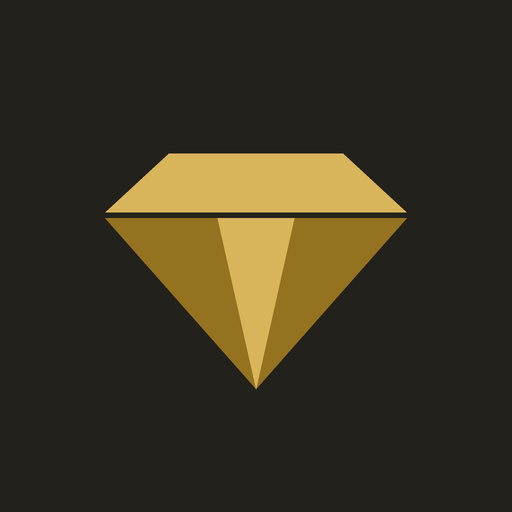
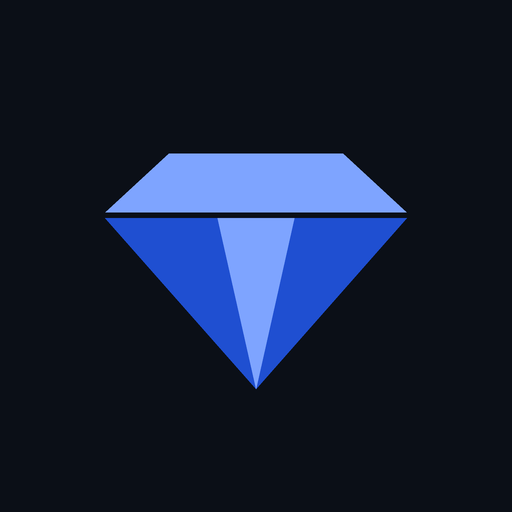
Add files via upload

Changed region(s): [[0.1875, 0.2812, 0.8125, 0.75]]

diff --git a/index.html b/index.html
@@ -7,7 +7,7 @@
 <meta name="mobile-web-app-capable" content="yes">
 <meta name="apple-mobile-web-app-title" content="עלות תכשיט">
 <meta name="apple-mobile-web-app-status-bar-style" content="default">
-<meta name="theme-color" content="#f5f3ee">
+<meta name="theme-color" content="#f1f4f9">
 <link rel="manifest" href="manifest.json">
 <link rel="apple-touch-icon" href="icon-180.png">
 <link rel="icon" href="icon-192.png">
@@ -17,67 +17,77 @@
 html{padding-top:env(safe-area-inset-top,0px);padding-bottom:env(safe-area-inset-bottom,0px)}
 body{margin:0}
 [hidden]{display:none!important}
-/* Layout: single column work-sheet, cost lines grouped by stage, summary card under the profit field */
+/* Layout: single column work-sheet in white and blue, black summary card at the end */
 :root{
-  --bg:#f5f3ee; --surface:#ffffff; --fg:#23211c; --muted:#77705f; --line:#e3ddcf;
-  --gold:#94721f; --gold-soft:#f1e7cc; --good:#2f6b46;
+  --bg:#f1f4f9; --surface:#ffffff; --fg:#0b0f17; --muted:#5a6577; --line:#dce2eb;
+  --accent:#1f4fd1; --accent-soft:#e5ecfb; --on-accent:#ffffff;
+  --ink:#0b0f17; --ink-fg:#ffffff; --ink-muted:#a3aec0; --ink-line:#273041;
+  --ink-accent:#7ea4ff; --good:#4cc38a; --bad:#ff7a7a;
+  --warn-bg:#fde8e8; --warn-fg:#8a1c1c;
   --display:"Times New Roman",Georgia,serif;
   --body:-apple-system,BlinkMacSystemFont,"Segoe UI",Arial,sans-serif;
 }
 @media (prefers-color-scheme: dark){:root:not([data-theme="light"]){
-  --bg:#17160f; --surface:#211f17; --fg:#efe9da; --muted:#a69d86; --line:#36322a;
-  --gold:#d8b45a; --gold-soft:#3a3120; --good:#7cc596; color-scheme:dark}}
+  --bg:#05070b; --surface:#0f141d; --fg:#f3f6fb; --muted:#93a0b4; --line:#222a37;
+  --accent:#5b8cff; --accent-soft:#132042; --on-accent:#05070b;
+  --ink:#141c2c; --ink-line:#2c3850; --warn-bg:#3a1414; --warn-fg:#ffb4b4; color-scheme:dark}}
 :root[data-theme="dark"]{
-  --bg:#17160f; --surface:#211f17; --fg:#efe9da; --muted:#a69d86; --line:#36322a;
-  --gold:#d8b45a; --gold-soft:#3a3120; --good:#7cc596; color-scheme:dark}
+  --bg:#05070b; --surface:#0f141d; --fg:#f3f6fb; --muted:#93a0b4; --line:#222a37;
+  --accent:#5b8cff; --accent-soft:#132042; --on-accent:#05070b;
+  --ink:#141c2c; --ink-line:#2c3850; --warn-bg:#3a1414; --warn-fg:#ffb4b4; color-scheme:dark}
 
 *{box-sizing:border-box}
 body{background:var(--bg);color:var(--fg);font-family:var(--body);font-size:17px;line-height:1.45;-webkit-text-size-adjust:100%}
 .wrap{max-width:520px;margin:0 auto;padding-inline:16px;padding-block:18px 40px;display:flex;flex-direction:column;gap:18px}
 header{display:flex;align-items:flex-end;justify-content:space-between;gap:12px}
-h1{font-family:var(--display);font-weight:400;font-size:1.65rem;margin:0;line-height:1.1;text-wrap:balance}
-h1 small{display:block;font-family:var(--body);font-size:.85rem;color:var(--muted);font-weight:400;margin-top:4px}
+h1{font-family:var(--body);font-weight:800;font-size:1.55rem;letter-spacing:-.01em;margin:0;line-height:1.1;text-wrap:balance}
+h1 small{display:block;font-size:.85rem;color:var(--muted);font-weight:400;margin-top:4px;letter-spacing:0}
 .links{display:flex;gap:8px}
-.ghost{background:none;border:1px solid var(--line);color:var(--muted);font:600 .85rem var(--body);padding:7px 11px;border-radius:999px;cursor:pointer}
-.ghost:active{background:var(--gold-soft)}
+.ghost{background:var(--surface);border:1px solid var(--line);color:var(--fg);font:600 .85rem var(--body);padding:7px 12px;border-radius:999px;cursor:pointer}
+.ghost:active{background:var(--accent-soft)}
 
 section{background:var(--surface);border:1px solid var(--line);border-radius:14px;padding:4px 14px}
-section h2{font-size:.78rem;letter-spacing:.06em;color:var(--gold);margin:12px 0 2px;font-weight:700}
+section h2{font-size:.78rem;letter-spacing:.06em;color:var(--accent);margin:12px 0 2px;font-weight:700}
 .row{display:flex;align-items:center;gap:12px;padding:10px 0;border-bottom:1px solid var(--line)}
 .row:last-child{border-bottom:0}
-.row label{flex:1;min-width:0;font-weight:600}
+.row > label{flex:1;min-width:0;font-weight:600}
 .money{position:relative;width:46%;max-width:180px}
 .money input{width:100%;font:600 1.1rem var(--body);font-variant-numeric:tabular-nums;color:var(--fg);background:var(--bg);border:1px solid var(--line);border-radius:10px;padding:10px 12px 10px 30px;text-align:left;direction:ltr;-webkit-appearance:none;appearance:none}
 .money input::placeholder{color:var(--muted);opacity:.55;font-weight:400}
 .money span{position:absolute;left:11px;top:50%;transform:translateY(-50%);color:var(--muted);font-size:.95rem;pointer-events:none}
-input:focus{outline:2px solid var(--gold);outline-offset:1px;border-color:transparent}
+input:focus{outline:2px solid var(--accent);outline-offset:1px;border-color:transparent}
 
-.seg{display:inline-flex;border:1px solid var(--line);border-radius:10px;overflow:hidden;flex:none}
+.seg{display:inline-flex;border:1px solid var(--line);border-radius:10px;overflow:hidden;flex:none;background:var(--bg)}
 .seg input{position:absolute;opacity:0;width:1px;height:1px;pointer-events:none}
-.seg label{flex:none;display:block;background:var(--bg);color:var(--muted);font:700 1rem var(--body);padding:11px 16px;cursor:pointer;min-width:50px;text-align:center;-webkit-tap-highlight-color:transparent;touch-action:manipulation}
-.seg input:checked + label{background:var(--gold);color:var(--surface)}
-.seg input:focus-visible + label{outline:2px solid var(--gold);outline-offset:-2px}
+.seg label{flex:1;display:block;color:var(--muted);font:700 1rem var(--body);padding:11px 16px;cursor:pointer;min-width:50px;text-align:center;-webkit-tap-highlight-color:transparent;touch-action:manipulation}
+.seg input:checked + label{background:var(--accent);color:var(--on-accent)}
+.seg input:focus-visible + label{outline:2px solid var(--accent);outline-offset:-2px}
+.seg.wide{display:flex;margin:10px 0 4px}
+.seg.wide label{font-size:.95rem;padding:10px 8px}
 .profit-row{flex-wrap:wrap}
 .profit-row .money{width:auto;flex:1;max-width:none}
 .hint{font-size:.85rem;color:var(--muted);padding:0 0 12px;margin:0}
 
-.status{margin:0;padding:8px 12px;border-radius:10px;font-size:.85rem;font-weight:600;background:#fde8e8;color:#8a1c1c}
-.status.ok{background:var(--gold-soft);color:var(--muted)}
-.calc{background:var(--gold);color:var(--surface);border:0;border-radius:12px;font:700 1.1rem var(--body);padding:14px;cursor:pointer;touch-action:manipulation}
+.status{margin:0;padding:8px 12px;border-radius:10px;font-size:.85rem;font-weight:600;background:var(--warn-bg);color:var(--warn-fg)}
+.status.ok{background:var(--accent-soft);color:var(--accent)}
+.calc{background:var(--accent);color:var(--on-accent);border:0;border-radius:12px;font:700 1.1rem var(--body);padding:14px;cursor:pointer;touch-action:manipulation}
 .calc:active{opacity:.85}
-.summary{background:var(--gold-soft);border-color:transparent;padding:4px 16px 14px}
-.summary h2{color:var(--fg)}
-.lines{display:flex;flex-direction:column;gap:4px;margin:6px 0 10px;font-size:.95rem}
+.summary{background:var(--ink);color:var(--ink-fg);border-color:var(--ink-line);padding:4px 16px 14px}
+.summary h2{color:var(--ink-muted)}
+.lines{display:flex;flex-direction:column;gap:4px;margin:6px 0 10px;font-size:.95rem;color:var(--ink-muted)}
 .lines div,.tot{display:flex;justify-content:space-between;gap:12px}
 .lines span:last-child,.tot output{font-variant-numeric:tabular-nums;direction:ltr}
-.lines .empty{color:var(--muted)}
-.tot{padding:8px 0;border-top:1px solid var(--line);font-weight:700;align-items:baseline}
+.tot{padding:8px 0;border-top:1px solid var(--ink-line);font-weight:700;align-items:baseline}
+.tot small{font-weight:400;color:var(--ink-muted)}
+.tot small.sub{display:block;font-size:.8rem;margin-top:2px}
 .tot output{font-size:1.15rem}
-.tot.price{border-top:2px solid var(--gold);padding-top:10px}
-.tot.price output{font-family:var(--display);font-size:2rem;color:var(--gold);font-weight:400}
+.tot.big{border-top:2px solid var(--ink-accent);padding-top:10px}
+.tot.big output{font-size:2rem;color:var(--ink-accent);font-weight:800}
+.tot.big output.good{color:var(--good)}
+.tot.big output.bad{color:var(--bad)}
 .profit-val{color:var(--good)}
+.profit-val.bad{color:var(--bad)}
 .toast{position:fixed;top:calc(14px + env(safe-area-inset-top,0px));left:50%;transform:translateX(-50%);background:var(--fg);color:var(--bg);padding:8px 16px;border-radius:999px;font-weight:600;font-size:.9rem}
-@media (prefers-reduced-motion:no-preference){.price output{transition:color .2s}}
 </style>
 </head>
 <body>
@@ -113,25 +123,37 @@ input:focus{outline:2px solid var(--gold);outline-offset:1px;border-color:transp
   </section>
 
   <section>
-    <h2>רווח מתוכנן</h2>
-    <div class="row profit-row">
-      <div class="seg" role="radiogroup" aria-label="סוג רווח">
-        <input type="radio" name="pmode" id="modePct" value="pct" checked><label for="modePct">%</label>
-        <input type="radio" name="pmode" id="modeFix" value="fix"><label for="modeFix">₪</label>
-      </div>
-      <div class="money"><span id="profitUnit">%</span><input id="profit" inputmode="decimal" placeholder="0"></div>
+    <h2>מחיר ורווח</h2>
+    <div class="seg wide" role="radiogroup" aria-label="אופן החישוב">
+      <input type="radio" name="kind" id="kindPlan" value="plan" checked><label for="kindPlan">תכנון מחיר</label>
+      <input type="radio" name="kind" id="kindSold" value="sold"><label for="kindSold">כבר מכרתי</label>
     </div>
-    <p class="hint" id="profitHint">אחוז רווח על העלות. לדוגמה 40% על עלות של 1,000 ₪ = מחיר 1,400 ₪.</p>
+
+    <div id="planBox">
+      <div class="row profit-row">
+        <div class="seg" role="radiogroup" aria-label="סוג רווח">
+          <input type="radio" name="pmode" id="modePct" value="pct" checked><label for="modePct">%</label>
+          <input type="radio" name="pmode" id="modeFix" value="fix"><label for="modeFix">₪</label>
+        </div>
+        <div class="money"><span id="profitUnit">%</span><input id="profit" inputmode="decimal" placeholder="0"></div>
+      </div>
+      <p class="hint" id="profitHint">אחוז רווח על העלות. לדוגמה 40% על עלות של 1,000 ₪ = מחיר 1,400 ₪.</p>
+    </div>
+
+    <div id="soldBox" hidden>
+      <div class="row"><label for="sold">מכרתי ב־</label><div class="money"><span>₪</span><input id="sold" inputmode="decimal" placeholder="0"></div></div>
+      <p class="hint">הכנס את הסכום שהלקוח שילם, ותקבל כמה הרווחת.</p>
+    </div>
   </section>
 
   <button class="calc" id="calcBtn" type="button">חשב</button>
 
   <section class="summary" aria-live="polite">
     <h2>סיכום</h2>
-    <div class="lines" id="lines"><div class="empty">עוד לא הוזנו עלויות</div></div>
+    <div class="lines" id="lines"><div>עוד לא הוזנו עלויות</div></div>
     <div class="tot"><span>עלות ייצור</span><output id="oCost">₪0</output></div>
-    <div class="tot"><span>רווח <small id="oMargin"></small></span><output id="oProfit" class="profit-val">₪0</output></div>
-    <div class="tot price"><span>מחיר מכירה</span><output id="oPrice">₪0</output></div>
+    <div class="tot" id="rowA"><span id="labA">רווח <small id="oMargin"></small></span><output id="oA" class="profit-val">₪0</output></div>
+    <div class="tot big"><span id="labB">מחיר מכירה</span><output id="oB">₪0</output></div>
   </section>
 
   <button class="ghost" id="copy" type="button" style="align-self:flex-start">העתקת סיכום</button>
@@ -148,23 +170,36 @@ window.onerror=function(msg,src,line){
 <script>
 (function(){
   var F=[["center","אבן מרכזית"],["side","אבני צד"],["model","מודל תלת־ממד"],["cast","יציקת זהב"],["smith","צורף"],["setter","משבץ"],["cert","תעודה"],["box","קופסה"]];
-  var mode="pct";
+  var mode="pct", kind="plan", last={};
   function el(id){return document.getElementById(id);}
   function num(v){var n=parseFloat(String(v||"").replace(/,/g,"").replace(/[^\d.\-]/g,""));return isFinite(n)?n:0;}
-  function fmt(n){var r=Math.round(n*100)/100;var parts=r.toFixed(r%1?2:0).split(".");parts[0]=parts[0].replace(/\B(?=(\d{3})+(?!\d))/g,",");return "₪"+parts.join(".");}
+  function fmt(n){var neg=n<0;n=Math.abs(n);var r=Math.round(n*100)/100;var parts=r.toFixed(r%1?2:0).split(".");parts[0]=parts[0].replace(/\B(?=(\d{3})+(?!\d))/g,",");return (neg?"-":"")+"₪"+parts.join(".");}
+  function pct(a,b){return b?(a/b*100).toFixed(1)+"%":"";}
   function calc(){
     var cost=0,i,html="";
     for(i=0;i<F.length;i++){var v=num(el(F[i][0]).value);cost+=v;if(v){html+='<div><span>'+F[i][1]+'</span><span>'+fmt(v)+'</span></div>';}}
-    var p=num(el("profit").value);
-    var profit=mode==="pct"?cost*p/100:p;
-    var price=cost+profit;
+    el("lines").innerHTML=html||'<div>עוד לא הוזנו עלויות</div>';
     el("oCost").textContent=fmt(cost);
-    el("oProfit").textContent=fmt(profit);
-    el("oPrice").textContent=fmt(price);
-    el("oMargin").textContent=(price>0&&profit)?"("+(profit/price*100).toFixed(1)+"% מהמחיר)":"";
-    el("lines").innerHTML=html||'<div class="empty">עוד לא הוזנו עלויות</div>';
+    var oA=el("oA"),oB=el("oB");
+    if(kind==="plan"){
+      var p=num(el("profit").value);
+      var profit=mode==="pct"?cost*p/100:p, price=cost+profit;
+      el("labA").innerHTML='רווח <small>'+((price>0&&profit)?"("+pct(profit,price)+" מהמחיר)":"")+'</small>';
+      oA.textContent=fmt(profit); oA.className="profit-val"+(profit<0?" bad":"");
+      el("labB").textContent="מחיר מכירה";
+      oB.textContent=fmt(price); oB.className="";
+      last={cost:cost,profit:profit,price:price};
+    }else{
+      var sold=num(el("sold").value), gain=sold-cost;
+      el("labA").textContent="מחיר שקיבלתי";
+      oA.textContent=fmt(sold); oA.className="";
+      var info=sold?(gain>=0?"רווחתי":"הפסדתי")+'<small class="sub">'+pct(gain,sold)+' מהמחיר'+(cost?'<br>'+pct(gain,cost)+' על העלות':'')+'</small>':"רווח";
+      el("labB").innerHTML=info;
+      oB.textContent=fmt(gain); oB.className=sold?(gain>=0?"good":"bad"):"";
+      last={cost:cost,profit:gain,price:sold};
+    }
     save();
-    return {cost:cost,profit:profit,price:price};
+    return last;
   }
   function setMode(m){
     mode=m;
@@ -174,10 +209,19 @@ window.onerror=function(msg,src,line){
     el("profitHint").textContent=m==="pct"?"אחוז רווח על העלות. לדוגמה 40% על עלות של 1,000 ₪ = מחיר 1,400 ₪.":"סכום רווח קבוע שמתווסף לעלות.";
     calc();
   }
-  function save(){try{var d={mode:mode,profit:el("profit").value};for(var i=0;i<F.length;i++){d[F[i][0]]=el(F[i][0]).value;}localStorage.setItem("jcalc",JSON.stringify(d));}catch(e){}}
-  function load(){try{var d=JSON.parse(localStorage.getItem("jcalc")||"null");if(!d)return;for(var i=0;i<F.length;i++){el(F[i][0]).value=d[F[i][0]]||"";}el("profit").value=d.profit||"";if(d.mode)mode=d.mode;}catch(e){}}
+  function setKind(k){
+    kind=k;
+    el("kindPlan").checked=(k==="plan");
+    el("kindSold").checked=(k==="sold");
+    el("planBox").hidden=(k!=="plan");
+    el("soldBox").hidden=(k!=="sold");
+    calc();
+  }
+  function save(){try{var d={mode:mode,kind:kind,profit:el("profit").value,sold:el("sold").value};for(var i=0;i<F.length;i++){d[F[i][0]]=el(F[i][0]).value;}localStorage.setItem("jcalc",JSON.stringify(d));}catch(e){}}
+  function load(){try{var d=JSON.parse(localStorage.getItem("jcalc")||"null");if(!d)return;for(var i=0;i<F.length;i++){el(F[i][0]).value=d[F[i][0]]||"";}el("profit").value=d.profit||"";el("sold").value=d.sold||"";if(d.mode)mode=d.mode;if(d.kind)kind=d.kind;}catch(e){}}
   var toastTimer;
   function toast(t){var n=el("toast");n.textContent=t;n.hidden=false;clearTimeout(toastTimer);toastTimer=setTimeout(function(){n.hidden=true;},1600);}
+  function on(id,f){el(id).addEventListener("change",f);el(id).addEventListener("click",f);}
 
   var inputs=document.querySelectorAll("input[inputmode]");
   for(var k=0;k<inputs.length;k++){
@@ -185,26 +229,26 @@ window.onerror=function(msg,src,line){
     inputs[k].addEventListener("change",calc);
     inputs[k].addEventListener("keyup",calc);
   }
-  el("modePct").addEventListener("change",function(){setMode("pct");});
-  el("modeFix").addEventListener("change",function(){setMode("fix");});
-  el("modePct").addEventListener("click",function(){setMode("pct");});
-  el("modeFix").addEventListener("click",function(){setMode("fix");});
+  on("modePct",function(){setMode("pct");});
+  on("modeFix",function(){setMode("fix");});
+  on("kindPlan",function(){setKind("plan");});
+  on("kindSold",function(){setKind("sold");});
   el("calcBtn").addEventListener("click",function(){calc();toast("חושב");});
-  el("reset").addEventListener("click",function(){for(var i=0;i<F.length;i++){el(F[i][0]).value="";}el("profit").value="";calc();toast("נוקה");});
-  el("sample").addEventListener("click",function(){var s={center:3200,side:850,model:250,cast:1900,smith:400,setter:350,cert:150,box:40};for(var i=0;i<F.length;i++){el(F[i][0]).value=s[F[i][0]];}el("profit").value=40;setMode("pct");toast("נטענה דוגמה");});
+  el("reset").addEventListener("click",function(){for(var i=0;i<F.length;i++){el(F[i][0]).value="";}el("profit").value="";el("sold").value="";calc();toast("נוקה");});
+  el("sample").addEventListener("click",function(){var s={center:3200,side:850,model:250,cast:1900,smith:400,setter:350,cert:150,box:40};for(var i=0;i<F.length;i++){el(F[i][0]).value=s[F[i][0]];}el("profit").value=40;el("sold").value=9500;setMode("pct");toast("נטענה דוגמה");});
   el("copy").addEventListener("click",function(){
     var r=calc(),lines=[];
     for(var i=0;i<F.length;i++){var v=num(el(F[i][0]).value);if(v)lines.push(F[i][1]+": "+fmt(v));}
-    lines.push("—","עלות ייצור: "+fmt(r.cost),"רווח: "+fmt(r.profit),"מחיר מכירה: "+fmt(r.price));
+    lines.push("—","עלות ייצור: "+fmt(r.cost));
+    if(kind==="plan"){lines.push("רווח: "+fmt(r.profit),"מחיר מכירה: "+fmt(r.price));}
+    else{lines.push("מחיר שקיבלתי: "+fmt(r.price),(r.profit>=0?"רווח: ":"הפסד: ")+fmt(r.profit));}
     try{navigator.clipboard.writeText(lines.join("\n")).then(function(){toast("הסיכום הועתק");},function(){toast("ההעתקה לא נתמכת כאן");});}catch(e){toast("ההעתקה לא נתמכת כאן");}
   });
-  load();setMode(mode);
-  if("serviceWorker" in navigator){
-    navigator.serviceWorker.register("sw.js").then(function(){
-      var s2=el("jsStatus");s2.textContent="המחשבון פעיל · עובד גם בלי אינטרנט";
-    }).catch(function(){});
-  }
+  load();setMode(mode);setKind(kind);
   var st=el("jsStatus");st.className="status ok";st.textContent="המחשבון פעיל";
+  if("serviceWorker" in navigator){
+    navigator.serviceWorker.register("sw.js").then(function(){st.textContent="המחשבון פעיל · עובד גם בלי אינטרנט";}).catch(function(){});
+  }
 })();
 </script>
 

diff --git a/sw.js b/sw.js
@@ -1,10 +1,17 @@
-var CACHE="jcalc-v1";
+var CACHE="jcalc-v2";
 var FILES=["./","index.html","manifest.json","icon-180.png","icon-192.png","icon-512.png"];
 self.addEventListener("install",function(e){e.waitUntil(caches.open(CACHE).then(function(c){return c.addAll(FILES);}));self.skipWaiting();});
 self.addEventListener("activate",function(e){e.waitUntil(caches.keys().then(function(k){return Promise.all(k.filter(function(x){return x!==CACHE;}).map(function(x){return caches.delete(x);}));}));self.clients.claim();});
 self.addEventListener("fetch",function(e){
   if(e.request.method!=="GET")return;
+  var isPage=e.request.mode==="navigate"||/\.html$|\/$/.test(new URL(e.request.url).pathname);
+  if(isPage){
+    // pages: try the network first so updates show up right away, fall back to the saved copy offline
+    e.respondWith(fetch(e.request).then(function(res){var copy=res.clone();caches.open(CACHE).then(function(c){c.put(e.request,copy);});return res;})
+      .catch(function(){return caches.match(e.request,{ignoreSearch:true}).then(function(r){return r||caches.match("index.html");});}));
+    return;
+  }
   e.respondWith(caches.match(e.request,{ignoreSearch:true}).then(function(r){
-    return r||fetch(e.request).then(function(res){var copy=res.clone();caches.open(CACHE).then(function(c){c.put(e.request,copy);});return res;}).catch(function(){return caches.match("index.html");});
+    return r||fetch(e.request).then(function(res){var copy=res.clone();caches.open(CACHE).then(function(c){c.put(e.request,copy);});return res;});
   }));
 });
